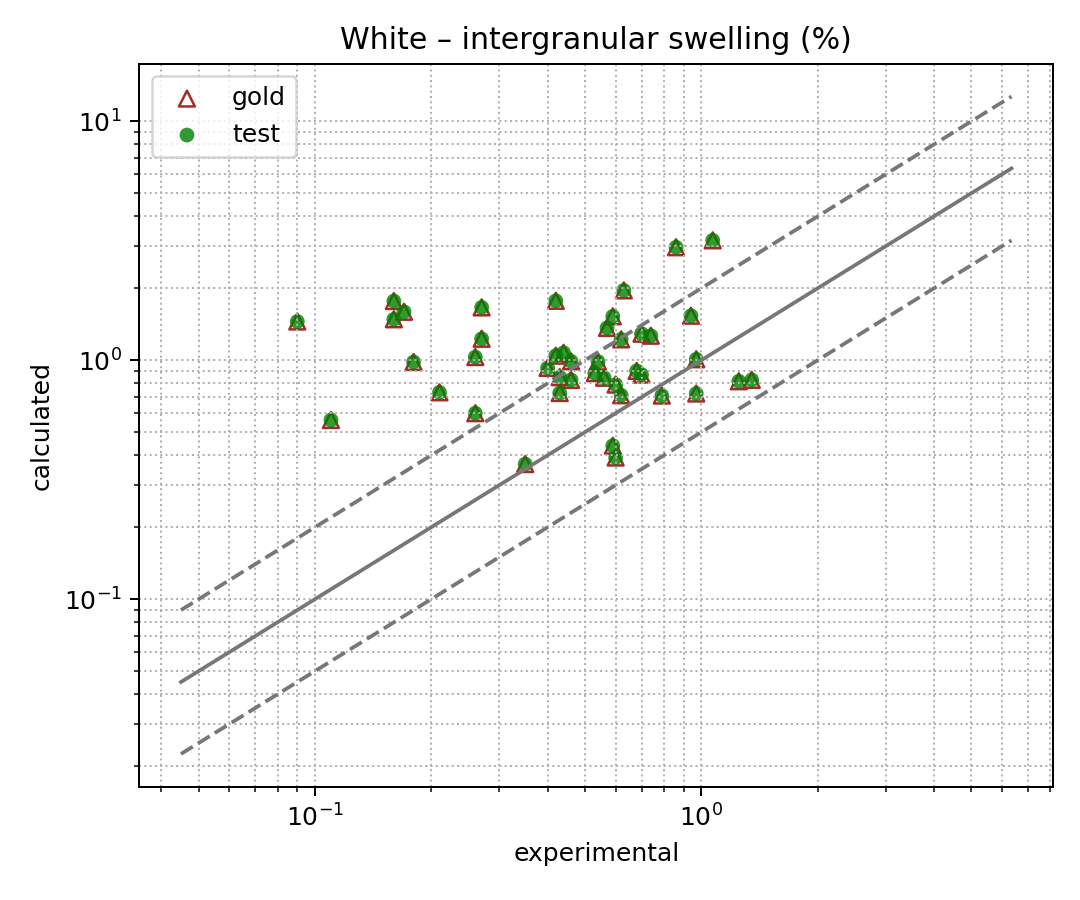
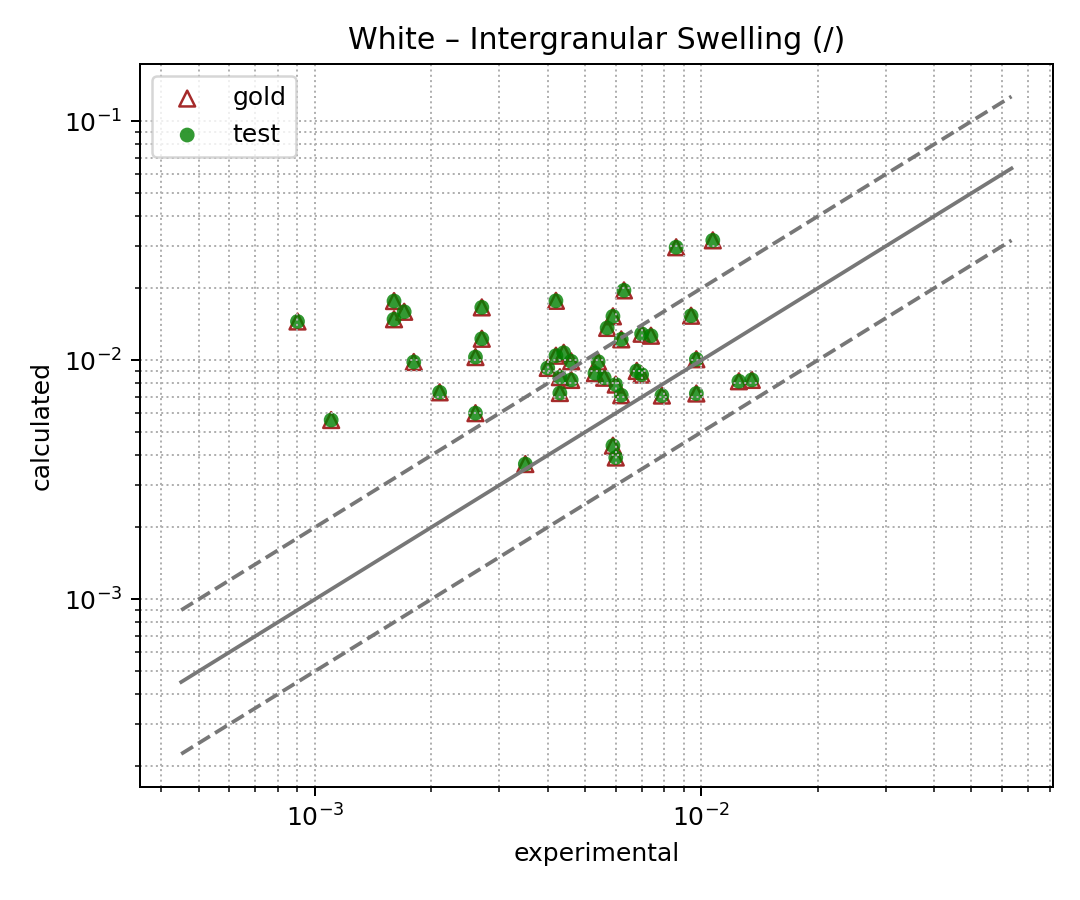
Added parity_plot2, generalization of parity_plot for different values than swelling, compatibility with white_data tabular format and use of SI units

diff --git a/regression/white/parity_plot2.py b/regression/white/parity_plot2.py
@@ -1,0 +1,158 @@
+#!/usr/bin/env python3
+import os
+import sys
+import numpy as np
+import matplotlib.pyplot as plt
+sys.path.append(os.path.abspath(os.path.join(os.path.dirname(__file__), "..", "..")))
+
+from regression.core.common import load_output, load_gold
+from regression.core.plot import parity_plot
+
+
+# ------------------------------------------------------------
+# utils
+# ------------------------------------------------------------
+def extract_last(output, column):
+    """Return the last timestep value of a given column."""
+    header = [h.strip() for h in output.header]
+    if column not in header:
+        raise KeyError(f"Column '{column}' not found in output.header")
+    idx = header.index(column)
+    return output.data[-1, idx]
+
+
+def load_experimental(basename,col_name):
+    """
+    Load experimental data for White.
+    Format: test_name   ... col_name    ...
+    Tabular with header_line
+    """
+    root = os.path.dirname(__file__)
+    fpath = os.path.join(root, "data", basename)
+
+    names = []
+    values = []
+
+    with open(fpath, "r") as f:
+        #Finding col_name (matching the strings)
+        header_line = f.readline()
+        if not header_line:
+            raise ValueError(f"File {basename} is empty.")
+            
+        headers = header_line.strip().split("\t")
+        
+        if col_name not in headers:
+            raise ValueError(f"Unable to find '{col_name}' in file. Available columns : {headers}")
+            
+        col_index = headers.index(col_name)
+
+        for line in f:
+            if not line.strip():
+                continue
+            parts = line.strip().split()
+            
+            #For an incomplete line
+            if len(parts) <= col_index:
+                continue
+                
+            names.append(parts[0])
+            values.append(float(parts[col_index])) 
+
+    return np.array(names), np.array(values)
+
+
+# ------------------------------------------------------------
+# main
+# ------------------------------------------------------------
+def main():
+
+    root = os.path.dirname(__file__)
+    white_root = os.path.abspath(os.path.join(root, "..", "white"))
+    outdir = os.path.join(root, "figures")
+    os.makedirs(outdir, exist_ok=True)
+
+    #Change the column name depending on which value to compare
+    col_out = "Intergranular gas swelling (/)" #Name of the column in the output file
+    col_exp = "Intergranular Swelling (/)" #Name of the column in the experimental file
+    #You can find the reference column names in white/data/whitedata_format.txt and white/data/output_format.txt
+
+    # load experimental swelling
+    exp_names, exp_values = load_experimental("white_data.txt",col_exp)
+
+    exp_list, gold_list, test_list = [], [], []
+
+    # loop over test directories
+    for name in sorted(os.listdir(white_root)):
+        if not name.startswith("test_White"):
+            continue
+
+        case = os.path.join(white_root, name)
+        if not os.path.isdir(case):
+            continue
+
+        test_name = name  # matching by string
+
+        # find experimental value
+        idx = np.where(exp_names == test_name)[0]
+        if len(idx) == 0:
+            print(f"[WARNING] No experimental {col_exp} for {test_name}")
+            continue
+
+        exp_val = exp_values[idx][0]
+
+        # load sciantix outputs
+        out = load_output(case)
+        gold = load_gold(case)
+
+        data_test = extract_last(out, col_out)
+        data_gold = extract_last(gold, col_out)
+
+        exp_list.append(exp_val)
+        gold_list.append(data_gold)
+        test_list.append(data_test)
+
+    # convert to arrays
+    exp_arr = np.array(exp_list)
+    gold_arr = np.array(gold_list)
+    test_arr = np.array(test_list)
+
+    # plot
+    parity_plot(exp_arr, gold_arr, test_arr, "white_swelling", f"White – {col_exp}", outdir)
+
+    # --------------------
+    # Statistical analysis
+    # --------------------
+    print("\n" + "="*50)
+    print("STATISTICAL ANALYSIS")
+    print("="*50)
+
+    error_test = test_arr - exp_arr
+    error_gold = gold_arr - exp_arr
+
+    # Experimental data
+    print(f"Experimental data - mean:   {np.mean(exp_arr):.4f}")
+    print(f"Experimental data - median: {np.median(exp_arr):.4f}")
+    print(f"Experimental data - Q1:     {np.percentile(exp_arr, 25, method='midpoint'):.4f}")
+    print(f"Experimental data - Q3:     {np.percentile(exp_arr, 75, method='midpoint'):.4f}")
+    print("-" * 30)
+
+    # Current results (test)
+    print(f"Current SCIANTIX  - mean:   {np.mean(test_arr):.4f}")
+    print(f"Current SCIANTIX  - median: {np.median(test_arr):.4f}")
+    print(f"Current SCIANTIX  - Q1:     {np.percentile(test_arr, 25, method='midpoint'):.4f}")
+    print(f"Current SCIANTIX  - Q3:     {np.percentile(test_arr, 75, method='midpoint'):.4f}")
+    print(f"Current SCIANTIX  - BIAS:   {np.median(error_test):.4f}")
+    print(f"Current SCIANTIX  - RMSE:   {np.sqrt(np.mean(error_test**2)):.4f}")
+    print(f"Current SCIANTIX  - MAD:    {np.median(np.abs(error_test)):.4f}")
+    print("-" * 30)
+
+    # Gold results
+    print(f"Gold (reference)  - mean:   {np.mean(gold_arr):.4f}")
+    print(f"Gold (reference)  - median: {np.median(gold_arr):.4f}")
+    print(f"Gold (reference)  - MAD:    {np.median(np.abs(error_gold)):.4f}")
+    print(f"Gold (reference)  - RMSE:   {np.sqrt(np.mean(error_gold**2)):.4f}")
+    print("="*50 + "\n")
+
+
+if __name__ == "__main__":
+    main()